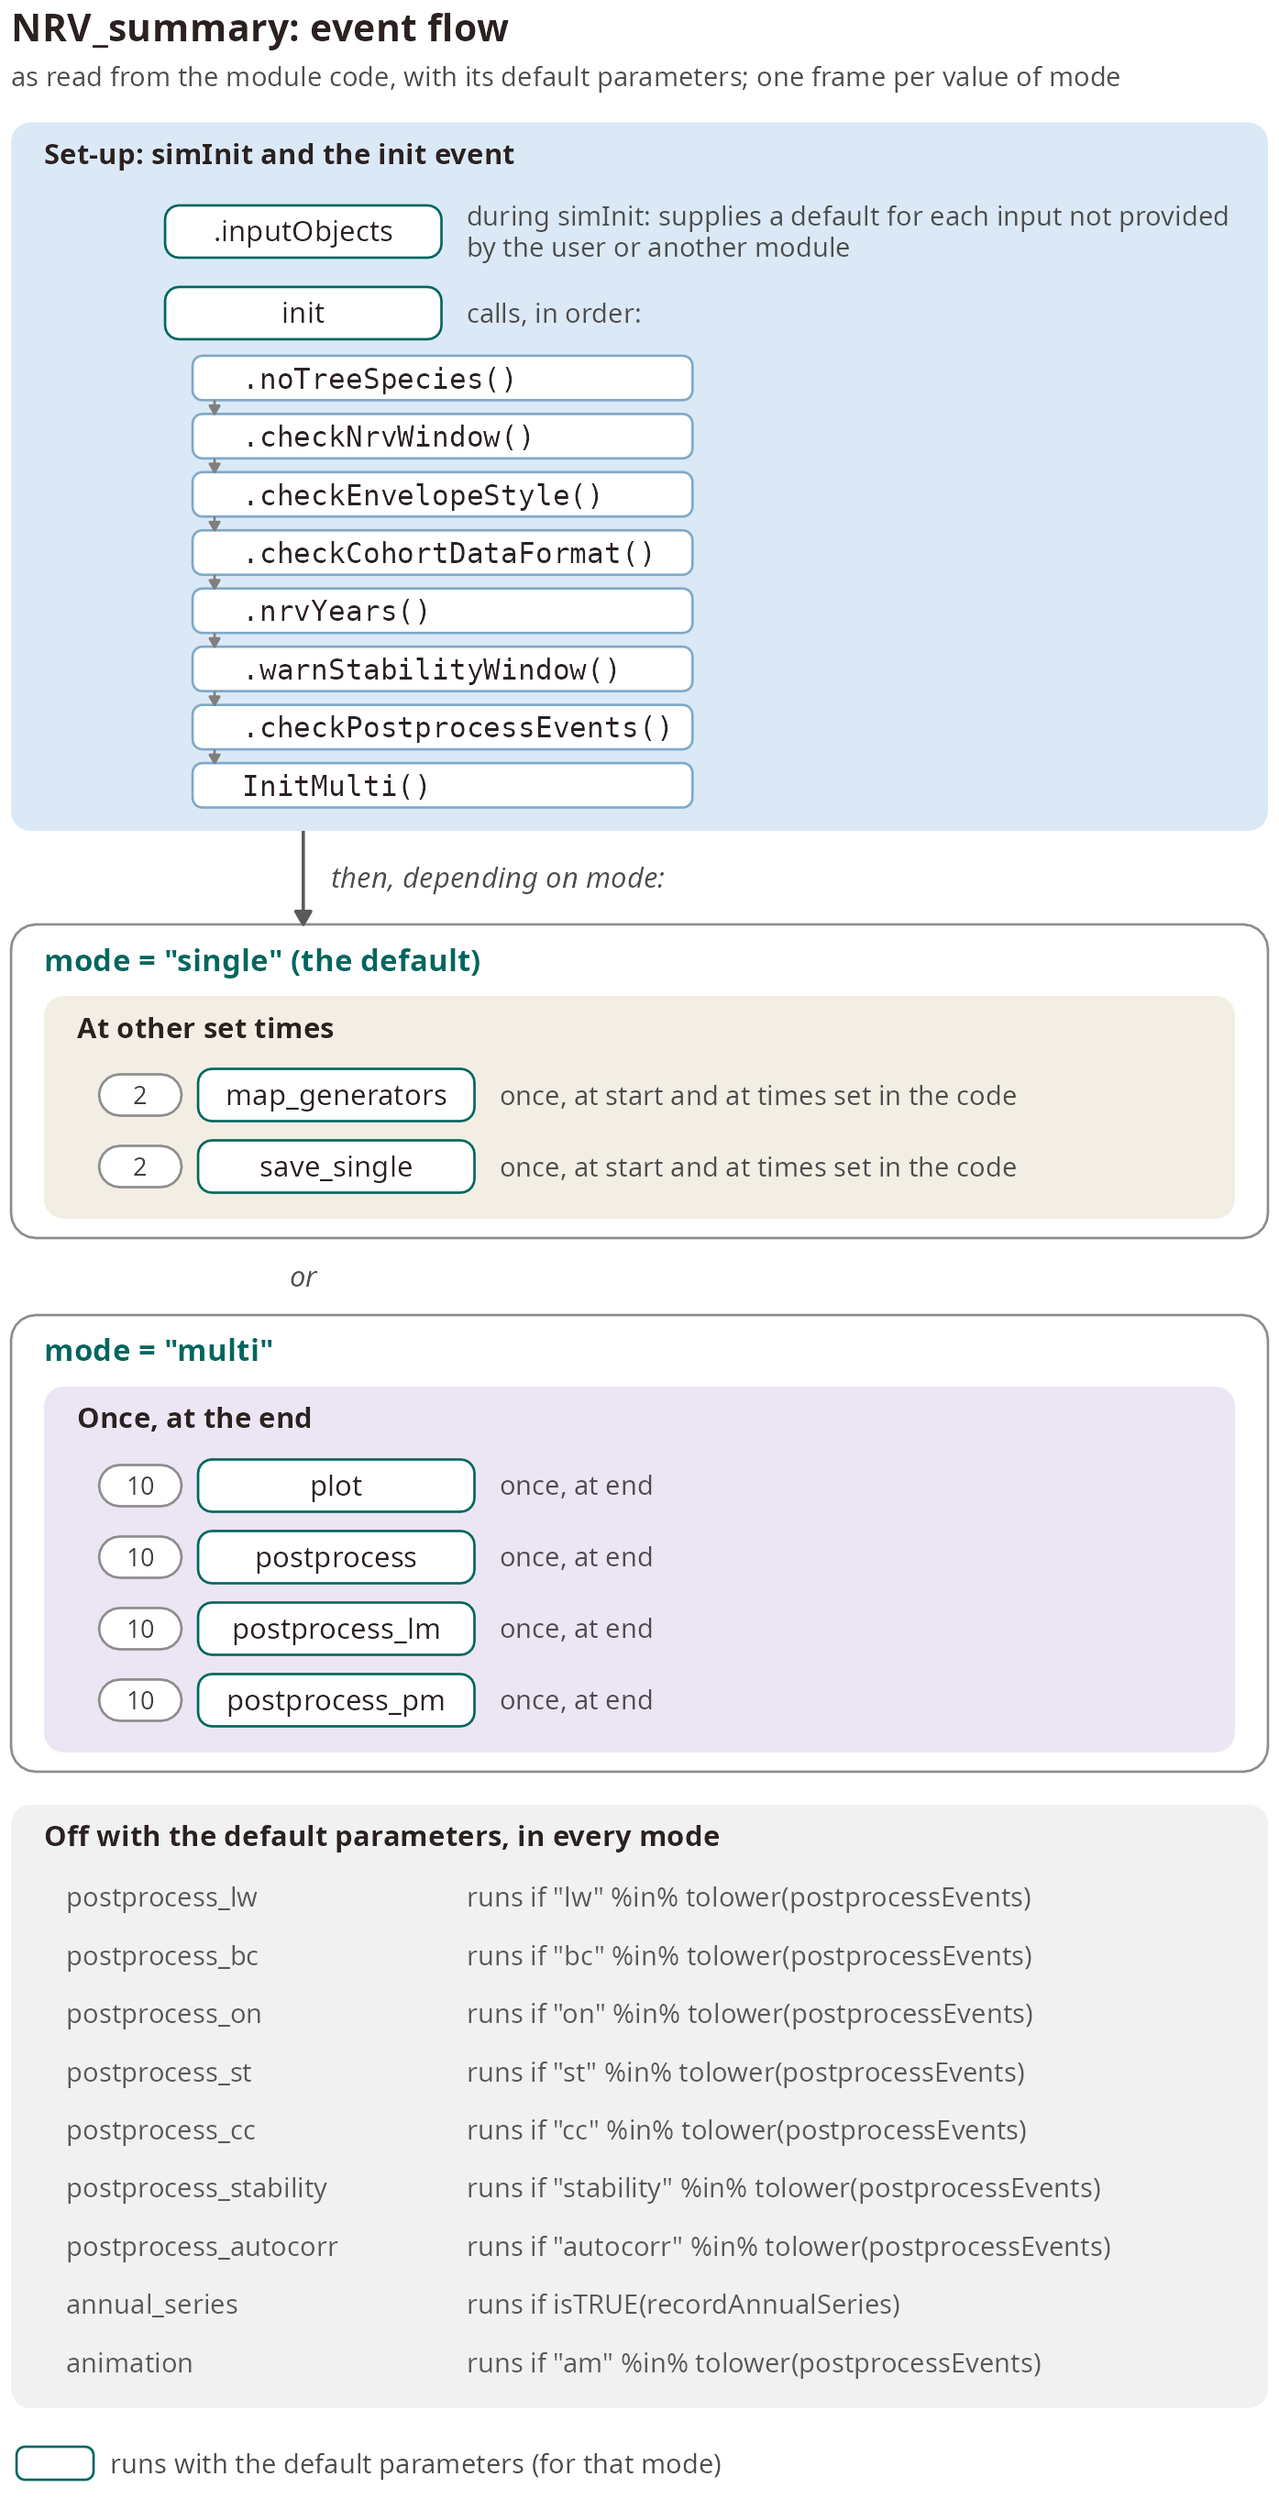
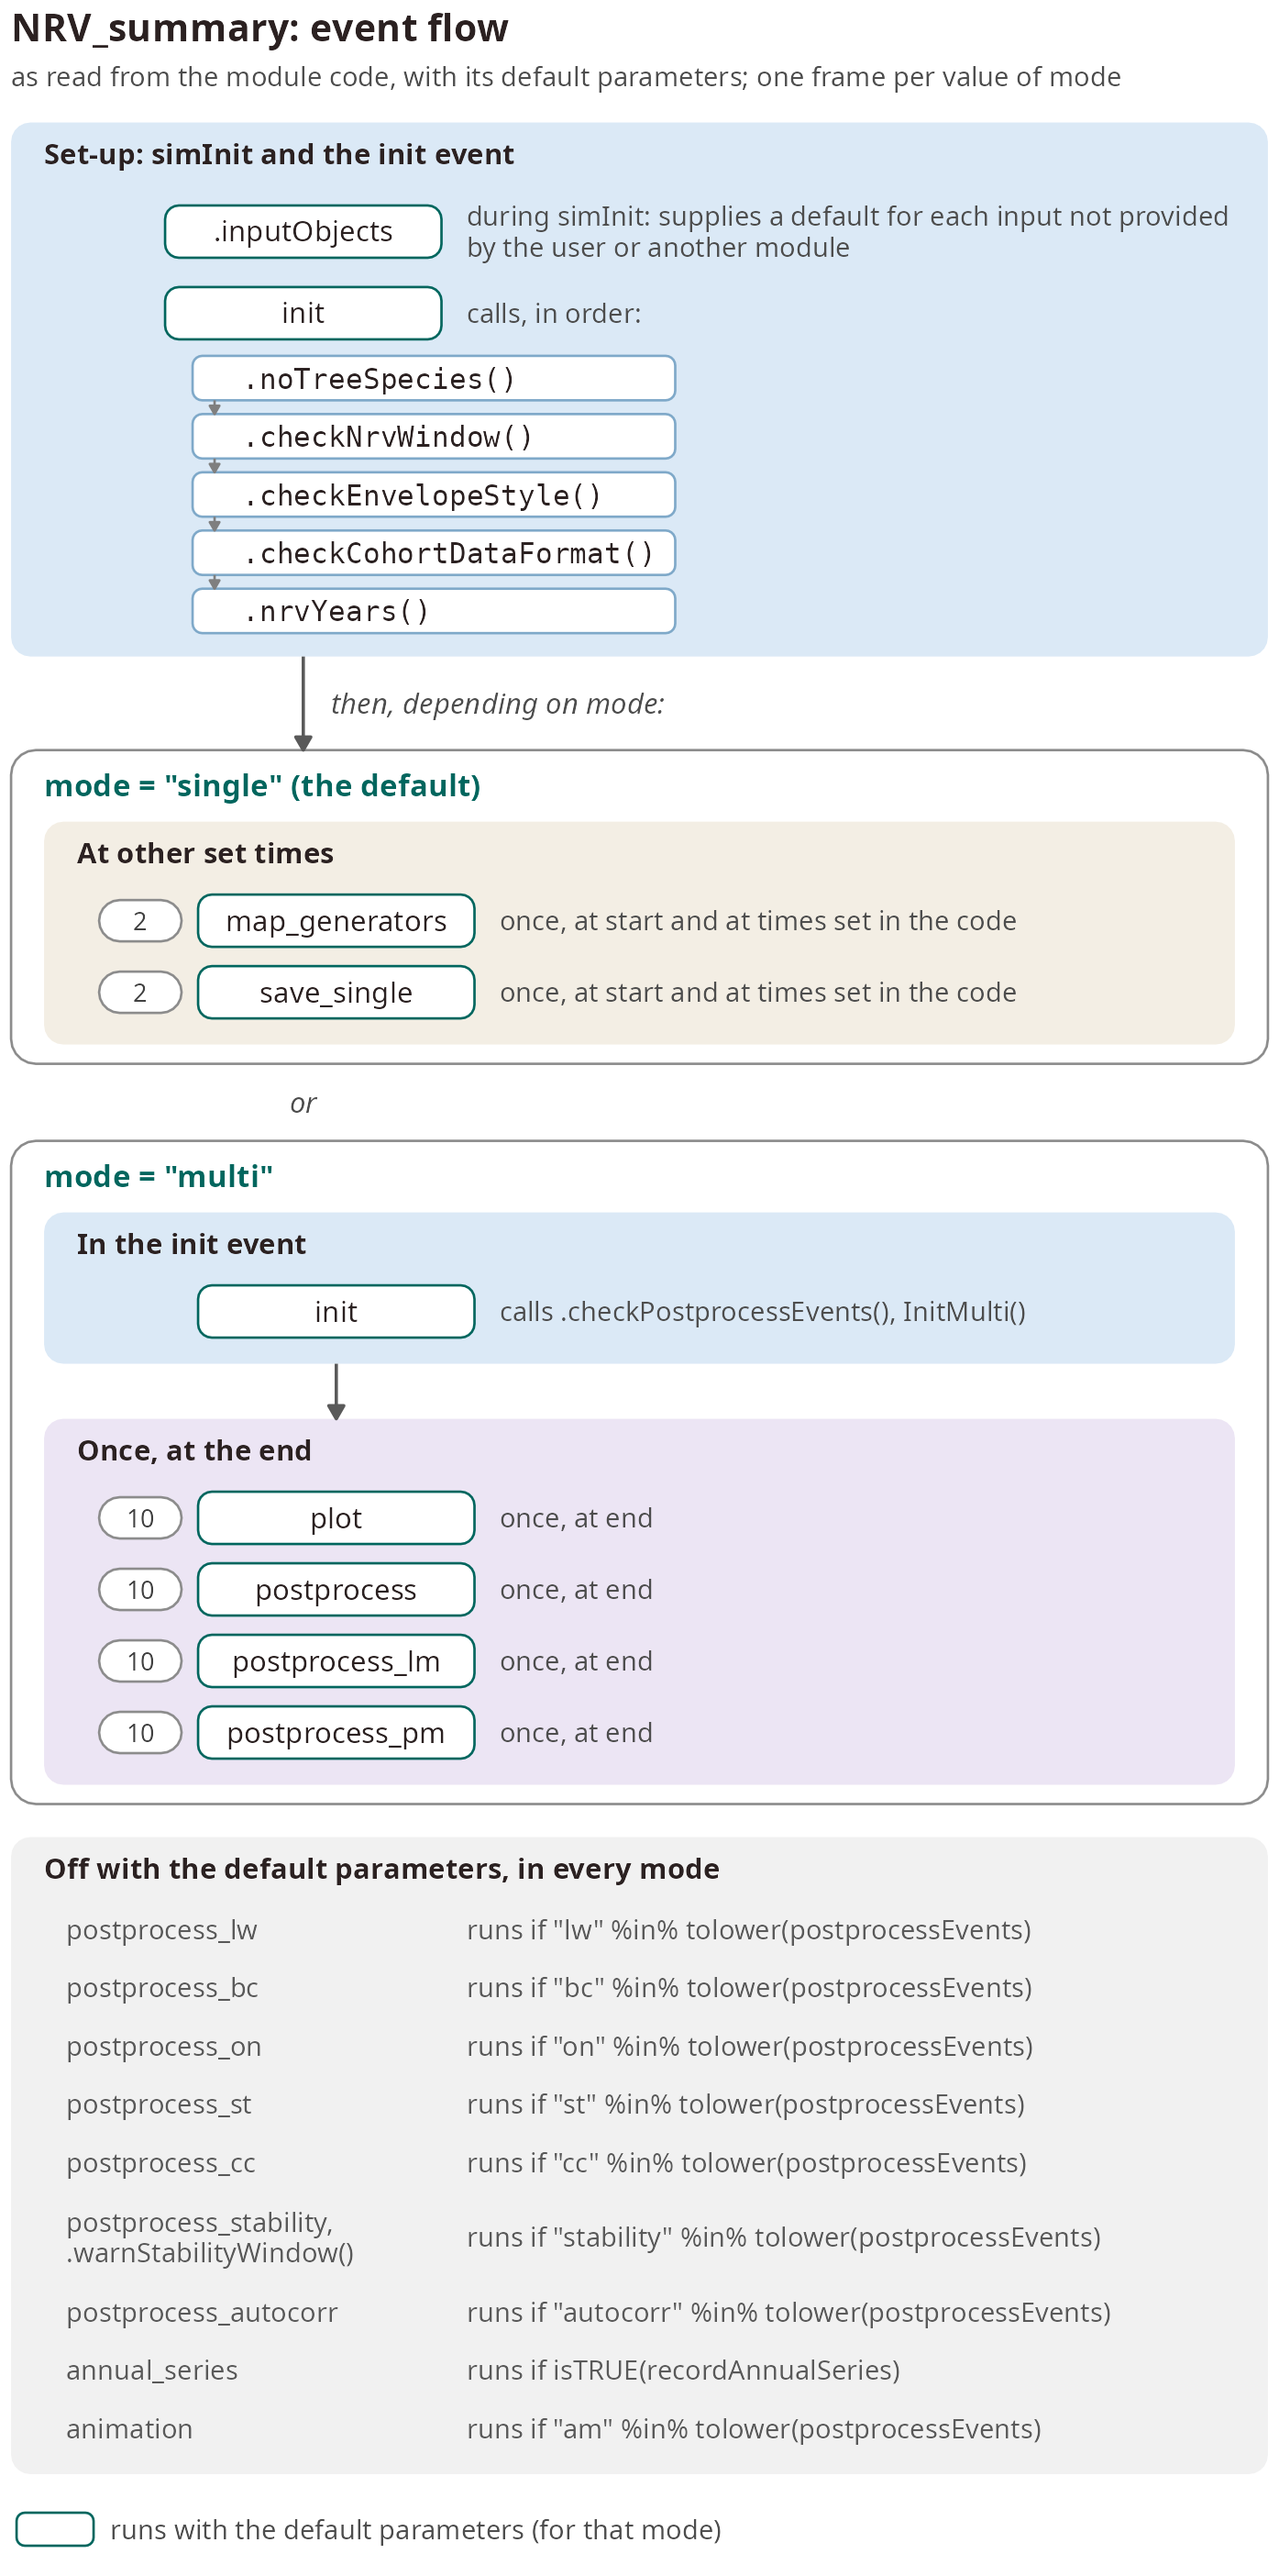
Re-build NRV_summary.Rmd

diff --git a/NRV_summary.md b/NRV_summary.md
@@ -1,6 +1,6 @@
 ---
 title: "NRV_summary Manual"
-subtitle: "v.2.0.0.9046"
+subtitle: "v.2.0.0.9047"
 date: "Last updated: 2026-11-25"
 output:
   bookdown::html_document2:
@@ -555,27 +555,27 @@ Table \@ref(tab:eventObjects-NRV-summary) lists, for each object, the code that 
 <tr>
    <td style="text-align:left;padding-left: 2em;" indentlevel="1"> sppEquiv </td>
    <td style="text-align:left;">  </td>
-   <td style="text-align:left;"> init: .noTreeSpecies(), init: InitMulti(), map_generators (single), save_single (single) </td>
+   <td style="text-align:left;"> init: .noTreeSpecies(), init: InitMulti() (multi), map_generators (single), save_single (single) </td>
   </tr>
   <tr>
    <td style="text-align:left;padding-left: 2em;" indentlevel="1"> LandTypeCC_reporting </td>
    <td style="text-align:left;">  </td>
-   <td style="text-align:left;"> init: InitMulti() </td>
+   <td style="text-align:left;"> init: InitMulti() (multi) </td>
   </tr>
   <tr>
    <td style="text-align:left;padding-left: 2em;" indentlevel="1"> outputsDF </td>
    <td style="text-align:left;">  </td>
-   <td style="text-align:left;"> init: InitMulti() </td>
+   <td style="text-align:left;"> init: InitMulti() (multi) </td>
   </tr>
   <tr>
    <td style="text-align:left;padding-left: 2em;" indentlevel="1"> reportingPolygons </td>
    <td style="text-align:left;">  </td>
-   <td style="text-align:left;"> init: InitMulti(), init (own code), plot (multi), postprocess_lm (multi), postprocess_pm (multi) </td>
+   <td style="text-align:left;"> init: InitMulti() (multi), init (own code), plot (multi), postprocess_lm (multi), postprocess_pm (multi) </td>
   </tr>
   <tr>
    <td style="text-align:left;padding-left: 2em;" indentlevel="1"> sppColorVectReporting </td>
    <td style="text-align:left;">  </td>
-   <td style="text-align:left;"> init: InitMulti() </td>
+   <td style="text-align:left;"> init: InitMulti() (multi) </td>
   </tr>
   <tr>
    <td style="text-align:left;padding-left: 2em;" indentlevel="1"> cohortData </td>
@@ -614,13 +614,13 @@ Table \@ref(tab:eventObjects-NRV-summary) lists, for each object, the code that 
   </tr>
 </tbody>
 <tfoot><tr><td style="padding: 0; " colspan="100%">
-<sup></sup> Not shown, off with the default parameters: postprocess_lw, postprocess_bc, postprocess_on, postprocess_st, postprocess_cc, postprocess_stability, postprocess_autocorr, annual_series, animation. Not shown, touching no object in the metadata: .inputObjects, init: .checkNrvWindow(), init: .checkEnvelopeStyle(), init: .checkCohortDataFormat(), init: .nrvYears(), init: .warnStabilityWindow(), init: .checkPostprocessEvents(), postprocess.</td></tr></tfoot>
+<sup></sup> Not shown, off with the default parameters: .warnStabilityWindow(), postprocess_lw, postprocess_bc, postprocess_on, postprocess_st, postprocess_cc, postprocess_stability, postprocess_autocorr, annual_series, animation. Not shown, touching no object in the metadata: .inputObjects, init: .checkNrvWindow(), init: .checkEnvelopeStyle(), init: .checkCohortDataFormat(), init: .nrvYears(), init: .checkPostprocessEvents(), postprocess.</td></tr></tfoot>
 </table>
 
 
 #### .noTreeSpecies() {-}
 
-init event, step 1 of 8
+init event, step 1 of 5
 
 ![](figures/NRV_summary_io_init_.noTreeSpecies.png){width=100%}
 
@@ -628,7 +628,7 @@ init event, step 1 of 8
 
 #### InitMulti() {-}
 
-init event, step 8 of 8
+mode = "multi": init event, step 7 of 7
 
 ![](figures/NRV_summary_io_init_InitMulti.png){width=100%}
 
